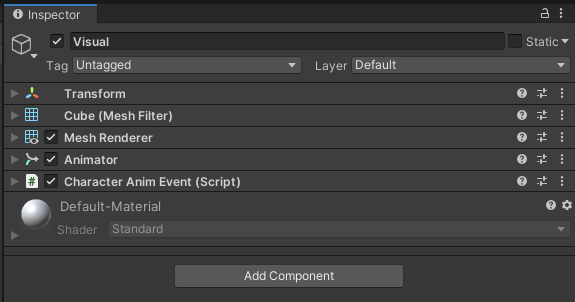
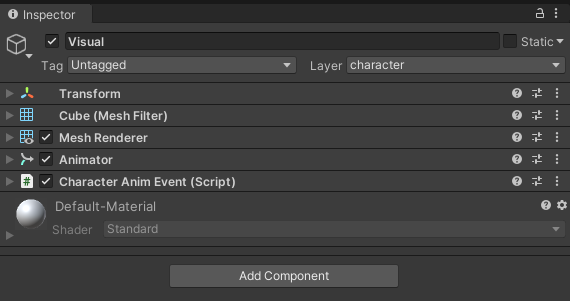
docs: more creature docs

diff --git a/TestMod/TestMod.cs b/TestMod/TestMod.cs
@@ -1080,7 +1080,7 @@ namespace TestMod
                 Category = "Lulzies."  // Test custom category
             });
 
-            if (CP != null)
+            if (CP.PiecePrefab)
             {
                 var prefab = CP.PiecePrefab;
                 prefab.GetComponent<MeshRenderer>().material.mainTexture = TestTex;
@@ -1098,7 +1098,7 @@ namespace TestMod
                 Category = "Lulzies."  // Test custom category
             });
 
-            if (CP != null)
+            if (CP.PiecePrefab)
             {
                 var prefab = CP.PiecePrefab;
                 prefab.GetComponent<MeshRenderer>().material.mainTexture = TestTex;
@@ -1480,9 +1480,14 @@ namespace TestMod
             try
             {
                 // Create creature from AssetBundle
-                var cubeThing = creaturesAssetBundle.LoadAsset<GameObject>("LulzThing");
-                cubeThing.GetComponentInChildren<MeshRenderer>().material.mainTexture = TestTex;
-                var cubeCreature = new CustomCreature(cubeThing, false,
+                var lulzThing = creaturesAssetBundle.LoadAsset<GameObject>("LulzThing");
+
+                // Set our lulzcube test texture on the first material found
+                var lulztex = AssetUtils.LoadTexture("TestMod/Assets/test_tex.jpg");
+                lulzThing.GetComponentInChildren<MeshRenderer>().material.mainTexture = lulztex;
+                
+                // Create a custom creature with one drop and two spawn configs
+                var cubeCreature = new CustomCreature(lulzThing, false,
                     new CreatureConfig
                     {
                         Name = "LulzThing",
@@ -1490,26 +1495,33 @@ namespace TestMod
                         {
                             new DropConfig
                             {
-                                Item = "ArmorStand_Male"
+                                Item = "Sausages",
+                                Chance = 50f,
+                                LevelMultiplier = false,
+                                MinAmount = 2,
+                                MaxAmount = 3,
+                                //OnePerPlayer = true
                             }
                         },
-                        SpawnConfigs = new[]
+                        SpawnConfigs = new []
                         {
                             new SpawnConfig
                             {
-                                Name = "LulzSpawn1",
+                                Name = "Jotunn_LulzSpawn1",
                                 SpawnChance = 100,
                                 SpawnInterval = 1f,
                                 SpawnDistance = 1f,
+                                MaxSpawned = 10,
                                 Biome = Heightmap.Biome.Meadows
                             },
                             new SpawnConfig
                             {
-                                Name = "LulzSpawn2",
-                                SpawnChance = 100,
-                                SpawnInterval = 1f,
-                                SpawnDistance = 1f,
-                                Biome = Heightmap.Biome.BlackForest
+                                Name = "Jotunn_LulzSpawn2",
+                                SpawnChance = 50,
+                                SpawnInterval = 2f,
+                                SpawnDistance = 2f,
+                                MaxSpawned = 5,
+                                Biome = ZoneManager.AnyBiomeOf(Heightmap.Biome.BlackForest, Heightmap.Biome.Plains)
                             }
                         }
                     });
@@ -1534,11 +1546,11 @@ namespace TestMod
                 var lulzeton = new CustomCreature("Lulzeton", "Skeleton_NoArcher",
                     new CreatureConfig
                     {
-                        SpawnConfigs = new[]
+                        SpawnConfigs = new []
                         {
                             new SpawnConfig
                             {
-                                Name = "SkelSpawn1",
+                                Name = "Jotunn_SkelSpawn1",
                                 SpawnChance = 100,
                                 SpawnInterval = 1f,
                                 SpawnDistance = 1f,

diff --git a/JotunnLib/Configs/SpawnConfig.cs b/JotunnLib/Configs/SpawnConfig.cs
@@ -58,6 +58,16 @@ namespace Jotunn.Configs
         ///     Maximum spawn range.
         /// </summary>
         public float MaxSpawnRadius { get; set; }
+        
+        /// <summary>
+        ///     Minimum level the creature spawns with. Defaults to 1.
+        /// </summary>
+        public int MinLevel { get; set; } = 1;
+
+        /// <summary>
+        ///     Maximum level the creature spawns with. Defaults to 1.
+        /// </summary>
+        public int MaxLevel { get; set; } = 1;
 
         /// <summary>
         ///     Only spawn if this key is set. See <see cref="Jotunn.Utils.GameConstants.GlobalKey"/> for constant values
@@ -70,12 +80,12 @@ namespace Jotunn.Configs
         public List<string> RequiredEnvironments { get; set; } = new List<string>();
 
         /// <summary>
-        ///     Minimum group size that can spawn. Defaults to 1.
+        ///     Minimum number of entities to attempt to spawn at a time. Defaults to 1.
         /// </summary>
         public int MinGroupSize { get; set; } = 1;
 
         /// <summary>
-        ///     Maximum group size that can spawn. Defaults to 1.
+        ///     Maximum number of entities to attempt to spawn at a time. Defaults to 1.
         /// </summary>
         public int MaxGroupSize { get; set; } = 1;
 
@@ -95,24 +105,34 @@ namespace Jotunn.Configs
         public bool SpawnAtNight { get; set; } = true;
 
         /// <summary>
-        ///     The minimum altitude for the creature to spawn. Defaults to -1000f.
+        ///     The minimum altitude (distance to water surface) for the creature to spawn. Defaults to -1000f.
         /// </summary>
         public float MinAltitude { get; set; } = -1000f;
 
         /// <summary>
-        ///     The maximum altitude for the creature to spawn. Defaults to 1000f.
+        ///     The maximum altitude (distance to water surface) for the creature to spawn. Defaults to 1000f.
         /// </summary>
         public float MaxAltitude { get; set; } = 1000f;
 
         /// <summary>
-        ///     The minimum tilt for the creature to spawn.
+        ///     The minimum tilt of terrain required to spawn. Range 0 to 90.
         /// </summary>
         public float MinTilt { get; set; }
 
         /// <summary>
-        ///     The maximum altitude for the creature to spawn. Defaults to 35f.
+        ///     The maximum tilt of terrain required to spawn. Range 0 to 90. Defaults to 35f.
         /// </summary>
         public float MaxTilt { get; set; } = 35f;
+        
+        /// <summary>
+        ///     The minimum ocean depth for the creature to spawn.
+        /// </summary>
+        public float MinOceanDepth { get; set; }
+
+        /// <summary>
+        ///     The maximum ocean depth for the creature to spawn.
+        /// </summary>
+        public float MaxOceanDepth { get; set; }
 
         /// <summary>
         ///     Spawn can happen in forest areas. Defaults to true.
@@ -125,16 +145,6 @@ namespace Jotunn.Configs
         public bool SpawnOutsideForest { get; set; } = true;
 
         /// <summary>
-        ///     The minimum ocean depth for the creature to spawn.
-        /// </summary>
-        public float MinOceanDepth { get; set; }
-
-        /// <summary>
-        ///     The maximum ocean depth for the creature to spawn.
-        /// </summary>
-        public float MaxOceanDepth { get; set; }
-
-        /// <summary>
         ///     Set true to let the AI hunt the player on spawn.
         /// </summary>
         public bool HuntPlayer { get; set; }
@@ -143,16 +153,6 @@ namespace Jotunn.Configs
         ///     Offset to the ground the creature spawns on. Defaults to 0.5f
         /// </summary>
         public float GroundOffset { get; set; } = 0.5f;
-
-        /// <summary>
-        ///     Minimum level the creature spawns with. Defaults to 1.
-        /// </summary>
-        public int MinLevel { get; set; } = 1;
-
-        /// <summary>
-        ///     Maximum level the creature spawns with. Defaults to 1.
-        /// </summary>
-        public int MaxLevel { get; set; } = 1;
 
         /// <summary>
         ///     Converts the SpawnConfig to a Valheim style <see cref="SpawnSystem.SpawnData"/> without a prefab set.

diff --git a/JotunnLib/Configs/DropConfig.cs b/JotunnLib/Configs/DropConfig.cs
@@ -9,7 +9,7 @@ namespace Jotunn.Configs
     public class DropConfig
     {
         /// <summary>
-        ///     Name of the item prefab of this drop.
+        ///     Name of the item prefab of this drop. Gets resolved by Jötunn at runtime.
         /// </summary>
         public string Item { get; set; } = string.Empty;
 
@@ -48,7 +48,7 @@ namespace Jotunn.Configs
             {
                 m_prefab = MockManager.Instance.CreateMockedGameObject(Item),
                 m_amountMin = MinAmount,
-                m_amountMax = MaxAmount,
+                m_amountMax = MaxAmount < MinAmount ? MinAmount : MaxAmount,
                 m_chance = Chance / 100f,
                 m_onePerPlayer = OnePerPlayer,
                 m_levelMultiplier = LevelMultiplier

diff --git a/JotunnLib/Documentation/tutorials/creatures.md b/JotunnLib/Documentation/tutorials/creatures.md
@@ -34,6 +34,13 @@ The second child GO `Visual` also has some mandatory components. Those are norma
 
 When validating the creature prefab the game looks for the `Animator` and `CharacterAnimEvent` component at any level of the prefab's GO hierarchy.
 
+### Additional Considerations
+
+There are some "gotcha"'s when creating more complex creatures.
+
+* Certain child GameObjects have to be added to the `character` layer for the game's collision and attack calculations (and probably more use cases). Jötunn will set the base GO and the first level of child GOs to this layer automatically for you. There is also the static [CreatureManager.CharacterLayer](xref:Jotunn.Managers.CreatureManager.CharacterLayer) field for mods to assign this layer in code.
+* Creatures wanting to use Valheim's `Tameable` and `Procreation` components must have a functioning `MonsterAI` component, too.
+
 ## Adding Custom Creature Prefabs
 
 After preparing the creature prefab using the minimal requirements, we will load and import the prefab as a [CustomCreature](xref:Jotunn.Entities.CustomCreature). This can be done as early as the mods Awake() call. All loaded creature prefabs added to the [CreatureManager](xref:Jotunn.Managers.CreatureManager) are kept between world loads. The most basic use case is to only add a prefab using as a custom creature and define if Jötunn should [resolve mock references](asset-mocking.md). In our example we opted to also define world spawning and a drop table for this creature by providing a [CreatureConfig](xref:Jotunn.Configs.CreatureConfig).
@@ -51,11 +58,15 @@ private void AddCustomCreaturesAndSpawns()
     AssetBundle creaturesAssetBundle = AssetUtils.LoadAssetBundleFromResources("creatures", typeof(TestMod).Assembly);
     try
     {
-        // Load creature prefab from asset bundle
-        var cubeThing = creaturesAssetBundle.LoadAsset<GameObject>("LulzThing");
+        // Create creature from AssetBundle
+        var lulzThing = creaturesAssetBundle.LoadAsset<GameObject>("LulzThing");
+
+        // Set our lulzcube test texture on the first material found
+        var lulztex = AssetUtils.LoadTexture("TestMod/Assets/test_tex.jpg");
+        lulzThing.GetComponentInChildren<MeshRenderer>().material.mainTexture = lulztex;
         
         // Create a custom creature with one drop and two spawn configs
-        var cubeCreature = new CustomCreature(cubeThing, false,
+        var cubeCreature = new CustomCreature(lulzThing, false,
             new CreatureConfig
             {
                 Name = "LulzThing",
@@ -63,26 +74,33 @@ private void AddCustomCreaturesAndSpawns()
                 {
                     new DropConfig
                     {
-                        Item = "ArmorStand_Male"
+                        Item = "Sausages",
+                        Chance = 50f,
+                        LevelMultiplier = false,
+                        MinAmount = 2,
+                        MaxAmount = 3,
+                        //OnePerPlayer = true
                     }
                 },
-                SpawnConfigs = new[]
+                SpawnConfigs = new []
                 {
                     new SpawnConfig
                     {
-                        Name = "LulzSpawn1",
+                        Name = "Jotunn_LulzSpawn1",
                         SpawnChance = 100,
                         SpawnInterval = 1f,
                         SpawnDistance = 1f,
+                        MaxSpawned = 10,
                         Biome = Heightmap.Biome.Meadows
                     },
                     new SpawnConfig
                     {
-                        Name = "LulzSpawn2",
-                        SpawnChance = 100,
-                        SpawnInterval = 1f,
-                        SpawnDistance = 1f,
-                        Biome = Heightmap.Biome.BlackForest
+                        Name = "Jotunn_LulzSpawn2",
+                        SpawnChance = 50,
+                        SpawnInterval = 2f,
+                        SpawnDistance = 2f,
+                        MaxSpawned = 5,
+                        Biome = Biome = ZoneManager.AnyBiomeOf(Heightmap.Biome.BlackForest, Heightmap.Biome.Plains)
                     }
                 }
             });
@@ -101,6 +119,12 @@ private void AddCustomCreaturesAndSpawns()
 
 ## Modifying and Cloning Vanilla Creatures
 
+You can get vanilla creatures and either clone them or modify the original to change any aspect of that creature you want. To make sure all vanilla creature prefabs are loaded, use the [provided event OnVanillaCreaturesAvailable](xref:Jotunn.Managers.CreatureManager.OnVanillaCreaturesAvailable).
+
+Cloned creatures keep their components as they are but don't copy any existing spawn data for that creature. If you don't provide a new DropConfig for the cloned creature, all vanilla drops are kept. Providing a new DropConfig completely overrides all vanilla drops.
+
+Since creature prefabs are loaded globally and Jötunn keeps all added creatures for the game session after adding them once, you can unsubscribe from the event after its first execution. Keep in mind that other mods could alter vanilla cratures, too, so it might be required to modify vanilla creatures on every event execution.
+
 ```cs
 private void Awake()
 {
@@ -117,11 +141,11 @@ private void ModifyAndCloneVanillaCreatures()
         var lulzeton = new CustomCreature("Lulzeton", "Skeleton_NoArcher",
             new CreatureConfig
             {
-                SpawnConfigs = new[]
+                SpawnConfigs = new []
                 {
                     new SpawnConfig
                     {
-                        Name = "SkelSpawn1",
+                        Name = "Jotunn_SkelSpawn1",
                         SpawnChance = 100,
                         SpawnInterval = 1f,
                         SpawnDistance = 1f,
@@ -149,3 +173,50 @@ private void ModifyAndCloneVanillaCreatures()
         CreatureManager.OnVanillaCreaturesAvailable -= ModifyAndCloneVanillaCreatures;
     }
 }
+```
+
+## Drop Configurations
+
+You can add one or more [SpawnConfigurations](xref:Jotunn.Configs.DropConfig) to your custom creature. Drops are items a creature leaves behind on its death. You must provide a prefab name for the drop as a string, Jötunn resolves that prefab at runtime for you.
+
+There are also additional properties to further the drops for the creature:
+
+|Property|Effect|Default
+|---|---|---
+|MinAmount<br>MaxAmount|How many of the drop items should be spawned|1
+|Chance|The chance of this drop in percent|100
+|OnePerPlayer|Should the drop be multiplied so every player gets the same amount|false
+|LevelMultiplier|Should the drop amount be multiplied by the creature level|true
+
+## Spawn Configurations
+
+While adding creatures with Jötunn you can define one or more basic spawn configurations. Those configurations are added to the world spawn list so your creatures spawn into the world automatically. You must at least provide an unique name for your spawn configuration and a Biome for your creature to spawn in. Multiple biomes per spawn config are possible. To get the correct value for this property, you can use [ZoneManager.AnyBiomeOf](xref:Jotunn.Managers.ZoneManager.AnyBiomeOf).
+
+There are plenty of properties to refine your spawn configuration:
+
+|Property|Effect|Default
+|---|---|---
+WorldSpawnEnabled|Creates the SpawnData for this config but disables the actual spawn.|true
+BiomeArea|Uses the Heihtmap.Biomearea enum to define if the spawn should be in the middle, on the edges or everywhere on the spawning biomes.|Heightmap.BiomeArea.Everywhere
+MaxSpawned|How many instances of this creature can be spawned in a biome at the same time.|1
+SpawnInterval|Seconds between new spawn checks.|4f
+SpawnChance|Spawn chance each spawn interval in percent.|100f
+SpawnDistance|Minimum distance to another instance.|10f
+MinSpawnRadius<br>MaxSpawnRadius|Minimum and maximum distance from player to spawn at. 0 equals the global default of 40<br>A specific player is chosen as a target, this setting basically creates a ring around the player, in which a spawn point can be chosen|0<br>0
+MinLevel<br>MaxLevel|Min/max level the creature spawns with.<br>Level is assigned by rolling levelup-chance for each level from min, until max is reached.|1<br>1
+RequiredGlobalKey|Only spawn if this key is set.<br>See [Jotunn.Utils.GameConstants.GlobalKey](xref:Jotunn.Utils.GameConstants.GlobalKey) for constant values|
+RequiredEnvironments|Only spawn if one of this environments is active.<br>See [Jotunn.Utils.GameConstants.Weather](xref:Jotunn.Utils.GameConstants.Weather) for constant values|
+MinGroupSize<br>MaxGroupSize|Min/Max number of entities to attempt to spawn at a time.|1<br>1
+GroupRadius|Radius of circle, in which to spawn a pack of entities<br>Eg., when group size is 3, all 3 spawns will happen inside a circle indicated by this radius.|3f
+SpawnAtDay|Can spawn during day.<br>Note: If not true, creatures with MonsterAI will attempt to despawn at day)|true
+SpawnAtNight|Can spawn during night|true
+MinAltitude<br>MaxAltitude|The min/max altitude (distance to water surface) for the creature to spawn|-1000f<br>1000f
+MinTilt<br>MaxTilt|The min/max tilt of terrain required to spawn. Tested multiple times to decide where to spawn entity.|35f
+MinOceanDepth<br>MaxOceanDepth|The min/max ocean depth for the creature to spawn. Ignored if min == max.|0<br>0
+SpawnInForest|Spawn can happen in forest areas.|true
+SpawnOutsideForest|Spawn can happen outside of forest areas.|true
+HuntPlayer|Set true to let the AI hunt the player on spawn.|false
+GroundOffset|Offset to the ground the creature spawns on|0.5f
+
+
+Jötunn's spawn configuration covers all of the game's default spawning options. To have much tighter control of your creature spawns, we recommend using the [SpawnThat! mod](https://www.nexusmods.com/valheim/mods/453) by A Sharp Pen.
